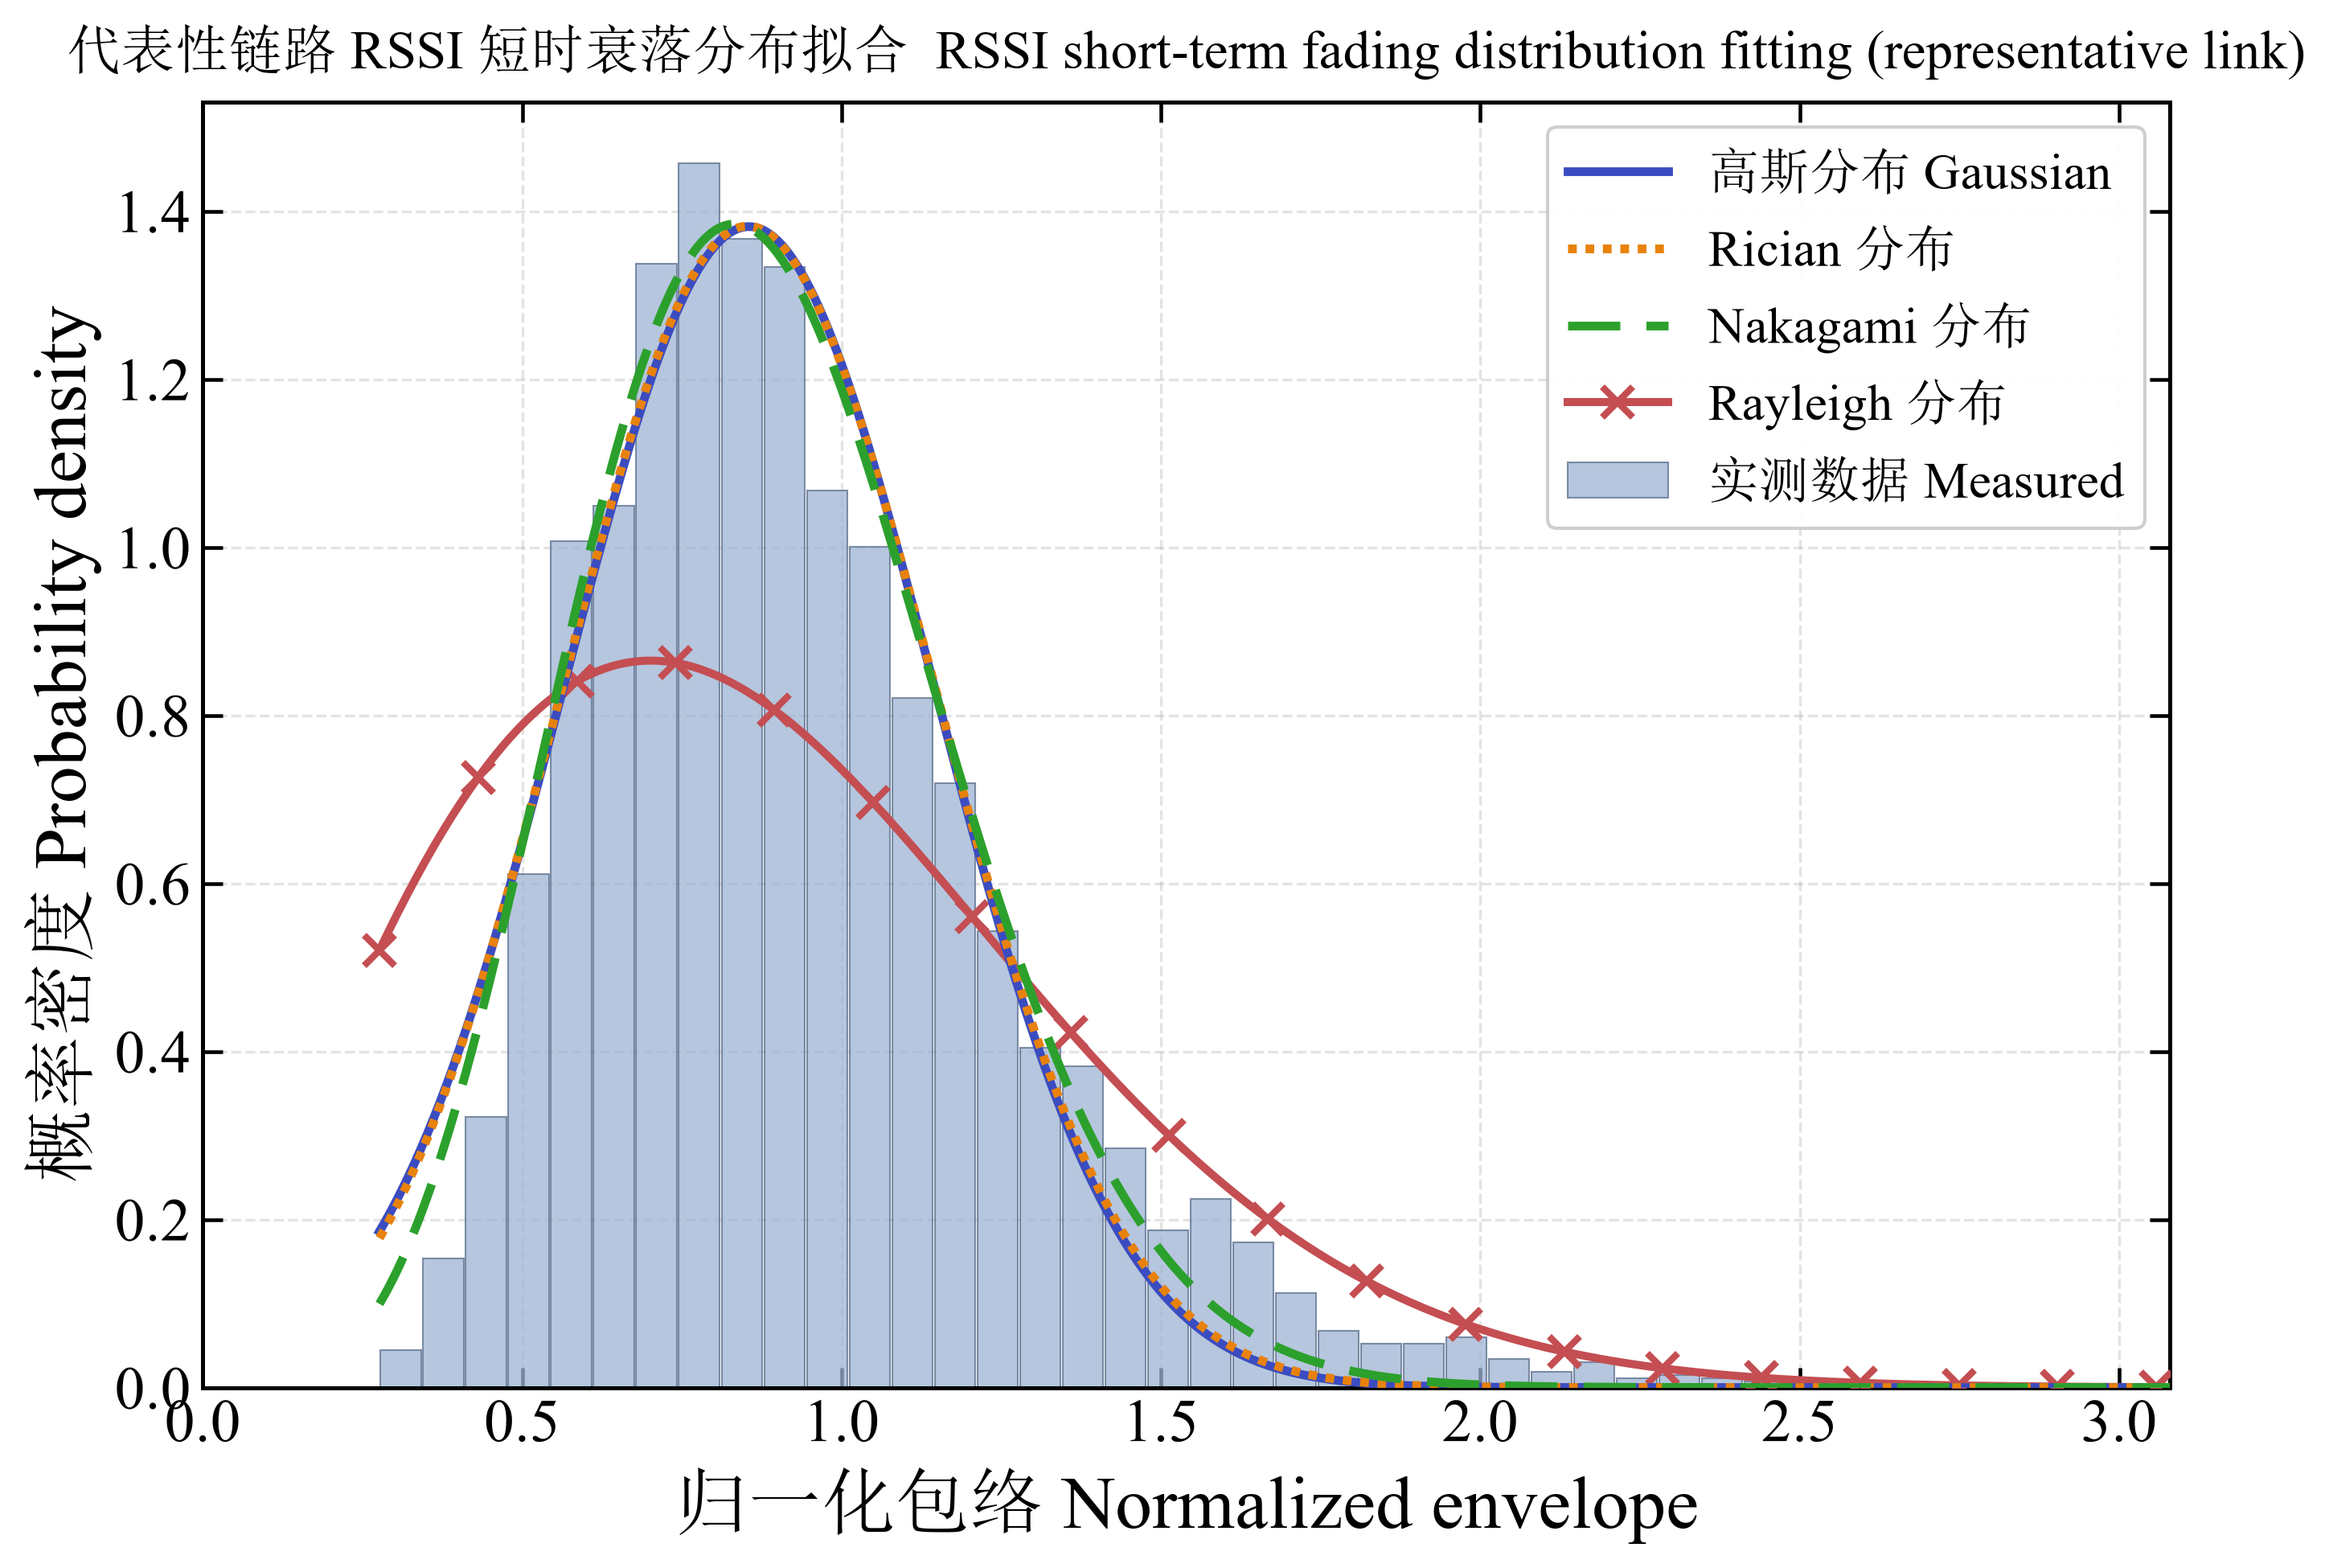
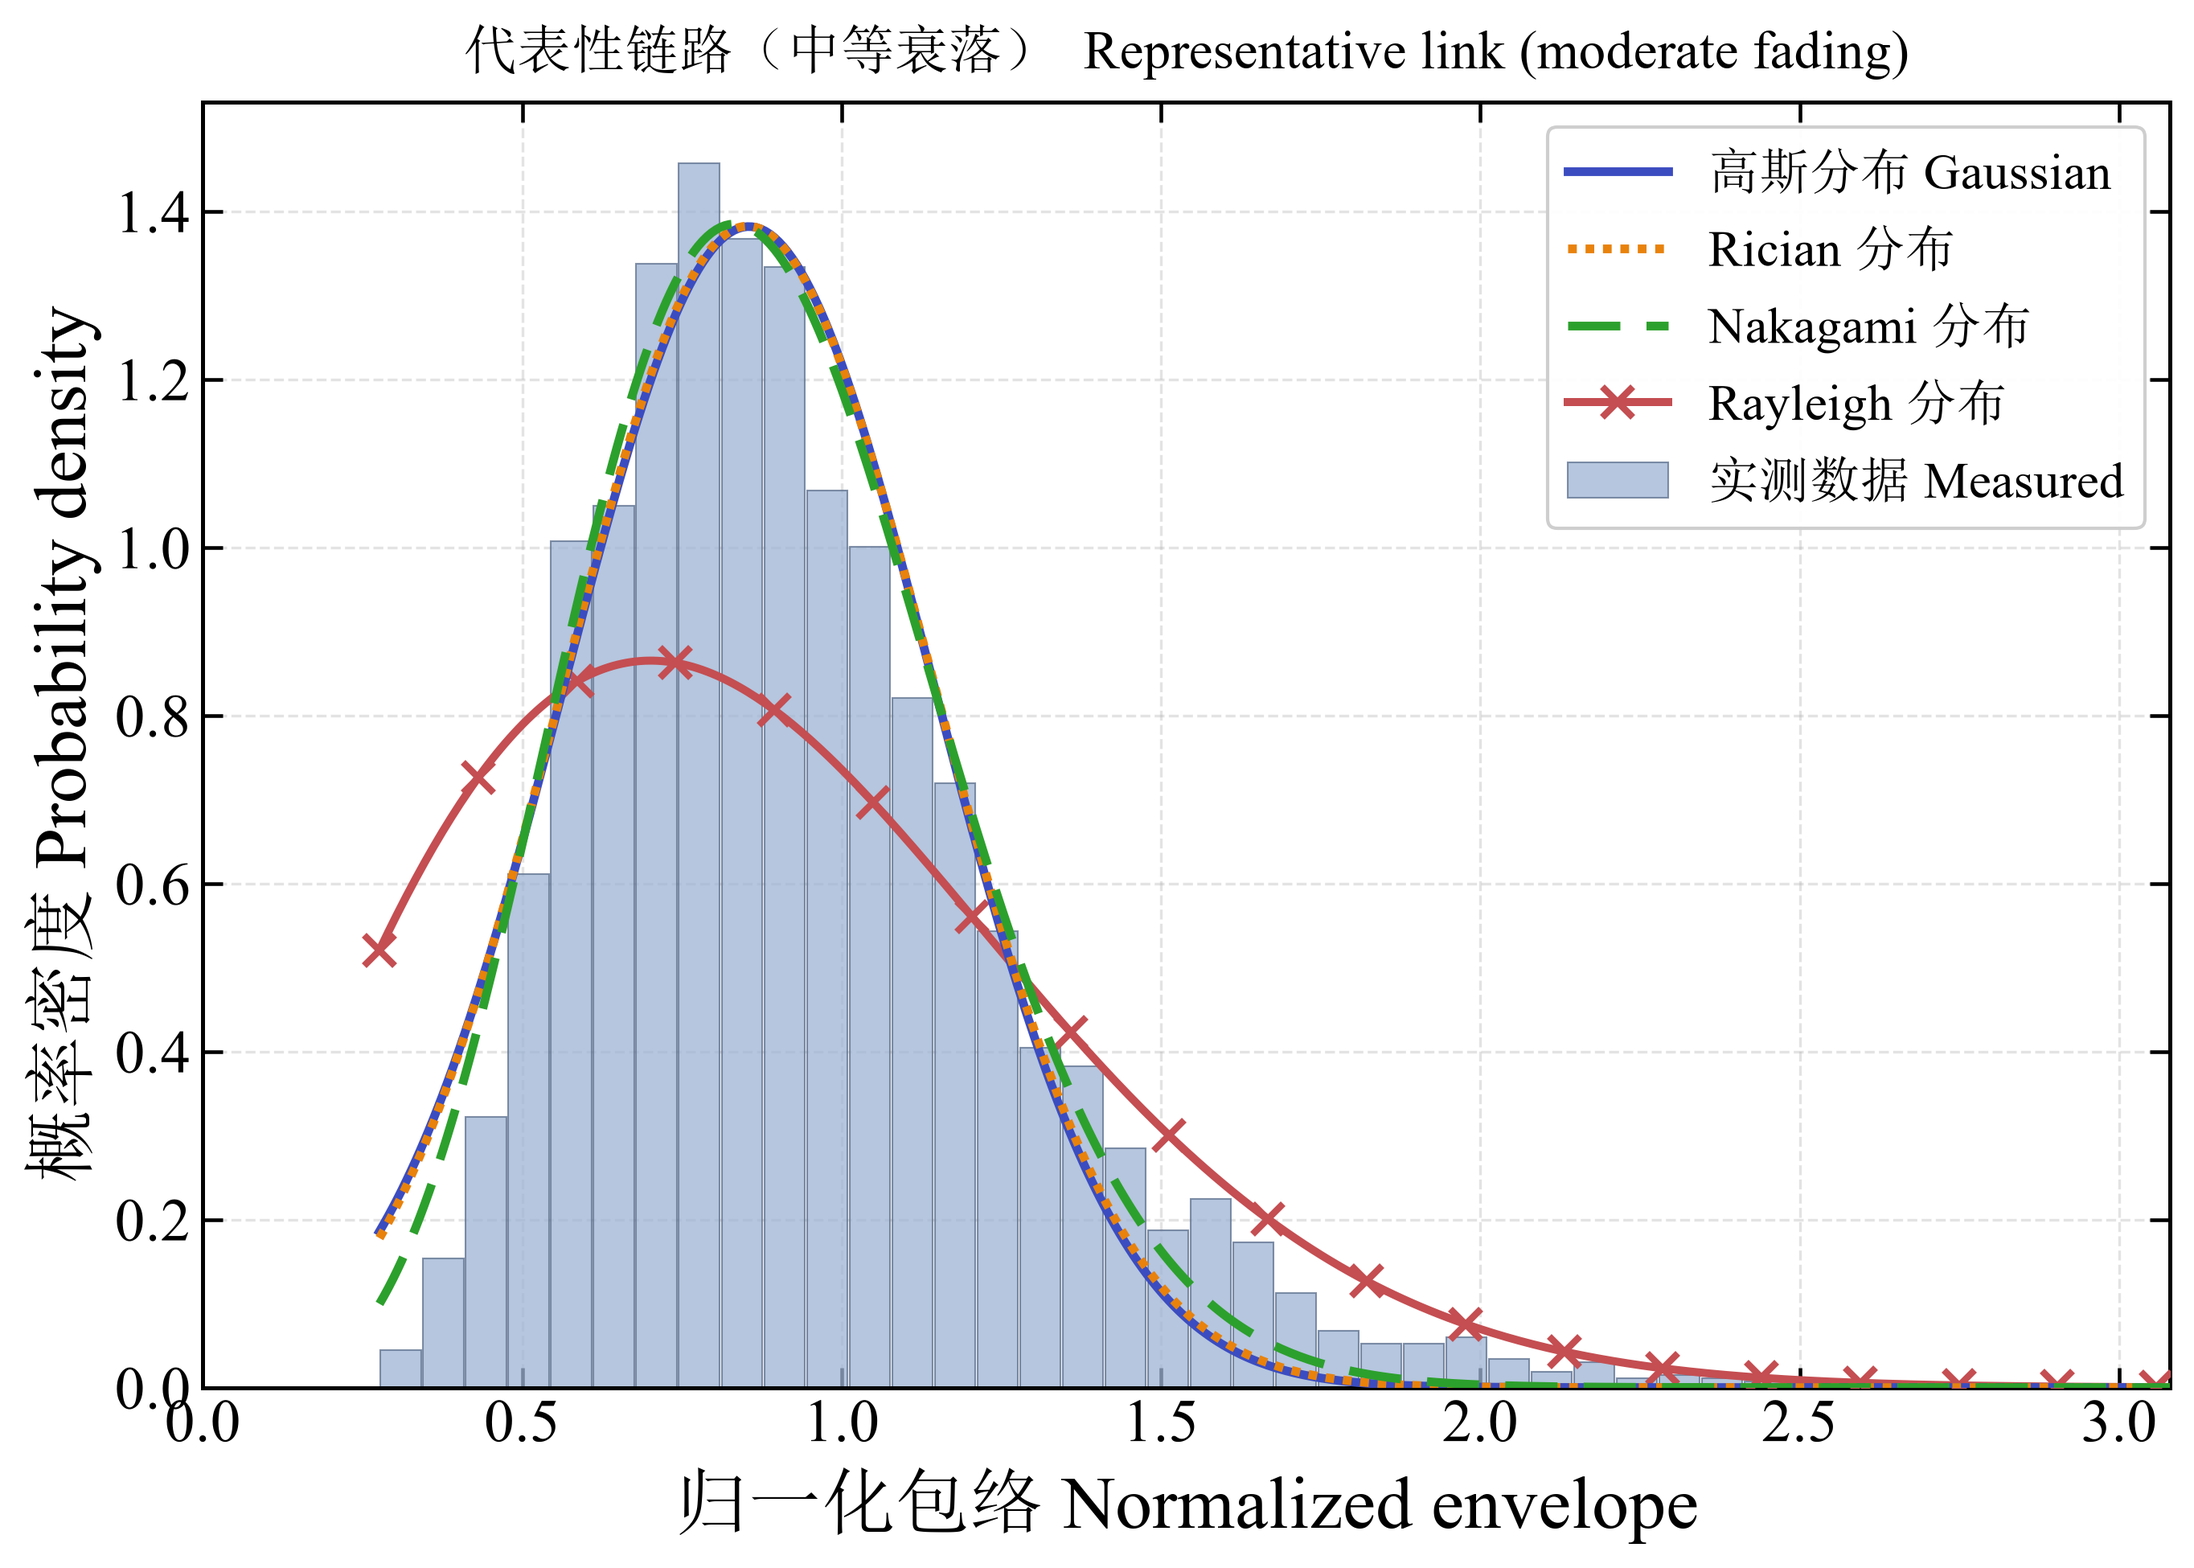
Add high/low fading-state envelope PDF figures alongside representative one (unified normalized-envelope axis)

diff --git a/microclimate/gen_states.py b/microclimate/gen_states.py
@@ -1,0 +1,60 @@
+# -*- coding: utf-8 -*-
+"""Generate envelope-PDF fitting figures for high / low / representative states.
+
+All use the same normalized envelope r = sqrt(P / mean(P))  (Eq. 2.3) and the
+unified project style.  Reuses helpers from rssi_fading.
+"""
+import os
+import sys
+sys.path.insert(0, os.path.dirname(os.path.abspath(__file__)))
+import numpy as np
+import matplotlib
+matplotlib.use("Agg")
+import matplotlib.pyplot as plt
+from rssi_fading import (rssi_state, envelope, fit_all, style,
+                         C_GAUSS, C_RICE, C_NAKA, C_RAYL, C_HIST, OUT)
+
+
+def make(state, title, fname, nbins=42):
+    r = envelope(rssi_state[state])
+    fits, centers, counts, edges = fit_all(r, nbins=nbins)
+    xg = np.linspace(r.min(), r.max(), 400)
+    fig, ax = plt.subplots(figsize=(9.2, 6.6))
+    ax.bar(centers, counts, width=(edges[1] - edges[0]) * 0.95, color=C_HIST,
+           edgecolor="#5B6E8C", linewidth=0.5, alpha=0.75,
+           label="\u5b9e\u6d4b\u6570\u636e Measured", zorder=2)
+    ax.plot(xg, fits["Gaussian"]["pdf"](xg), color=C_GAUSS, lw=2.6, ls="-",
+            label="\u9ad8\u65af\u5206\u5e03 Gaussian", zorder=5)
+    ax.plot(xg, fits["Rician"]["pdf"](xg), color=C_RICE, lw=2.6, ls=(0, (1, 1)),
+            label="Rician \u5206\u5e03", zorder=5)
+    ax.plot(xg, fits["Nakagami"]["pdf"](xg), color=C_NAKA, lw=2.6, ls=(0, (6, 3)),
+            label="Nakagami \u5206\u5e03", zorder=5)
+    ax.plot(xg, fits["Rayleigh"]["pdf"](xg), color=C_RAYL, lw=2.4, ls="-",
+            marker="x", markevery=22, markersize=9, markeredgewidth=2,
+            label="Rayleigh \u5206\u5e03", zorder=4)
+    ax.set_xlabel("\u5f52\u4e00\u5316\u5305\u7edc Normalized envelope", fontsize=22)
+    ax.set_ylabel("\u6982\u7387\u5bc6\u5ea6 Probability density", fontsize=22)
+    ax.set_xlim(0, r.max())
+    ax.set_ylim(0, None)
+    ax.legend(fontsize=15, framealpha=0.95, loc="upper right")
+    ax.set_title(title, fontsize=16, pad=10)
+    ax.grid(True, linestyle="--", alpha=0.35)
+    style(ax, fs=18)
+    fig.tight_layout()
+    fig.savefig(OUT + fname, bbox_inches="tight")
+    plt.close(fig)
+    print(fname, {k: round(fits[k]["Erms"], 4) for k in fits})
+
+
+# high-fading (wet veg-soil + most humid air, lowest VPD) -> Rayleigh-like
+make(("\u9ad8 High", "\u4f4e Low"),
+     "\u9ad8\u6e7f\u5f3a\u8870\u843d\u72b6\u6001  High humidity (strong fading)",
+     "fig_fading_pdf_high.png")
+# low-fading (dry veg-soil + driest air, highest VPD) -> Gaussian/Rician
+make(("\u4f4e Low", "\u9ad8 High"),
+     "\u5e72\u71e5\u7a33\u5b9a\u72b6\u6001  Dry / stable (weak fading)",
+     "fig_fading_pdf_low.png")
+# representative moderate-fading link (already the official fig_fading_pdf.png)
+make(("\u4e2d Mid", "\u4e2d Mid"),
+     "\u4ee3\u8868\u6027\u94fe\u8def\uff08\u4e2d\u7b49\u8870\u843d\uff09  Representative link (moderate fading)",
+     "fig_fading_pdf.png")
